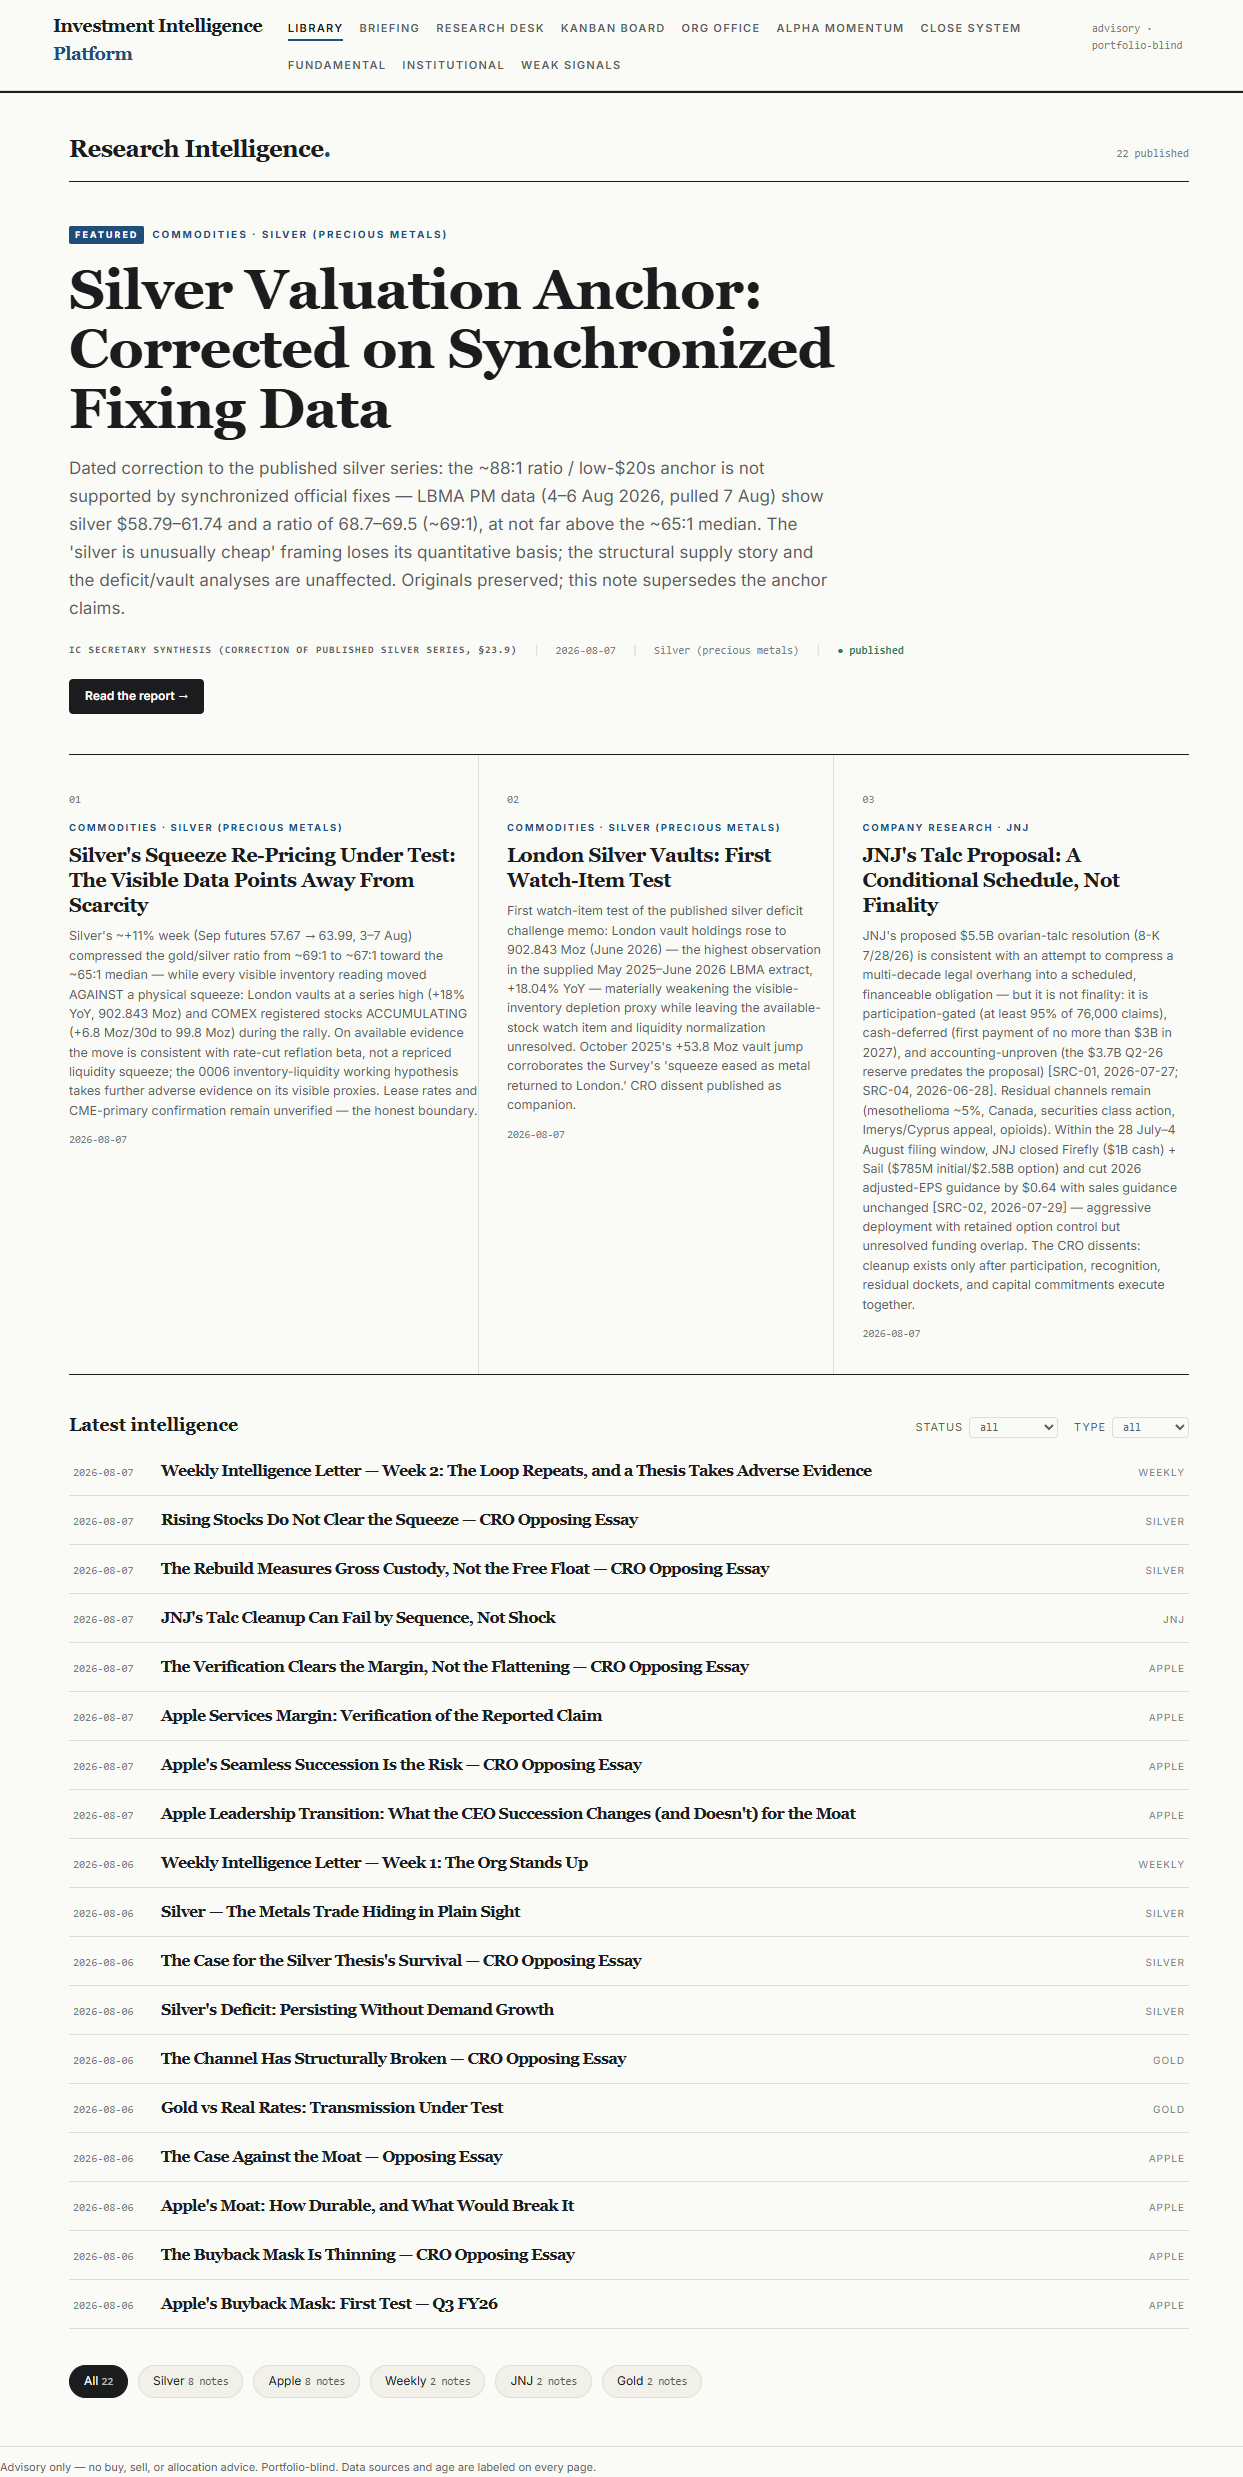
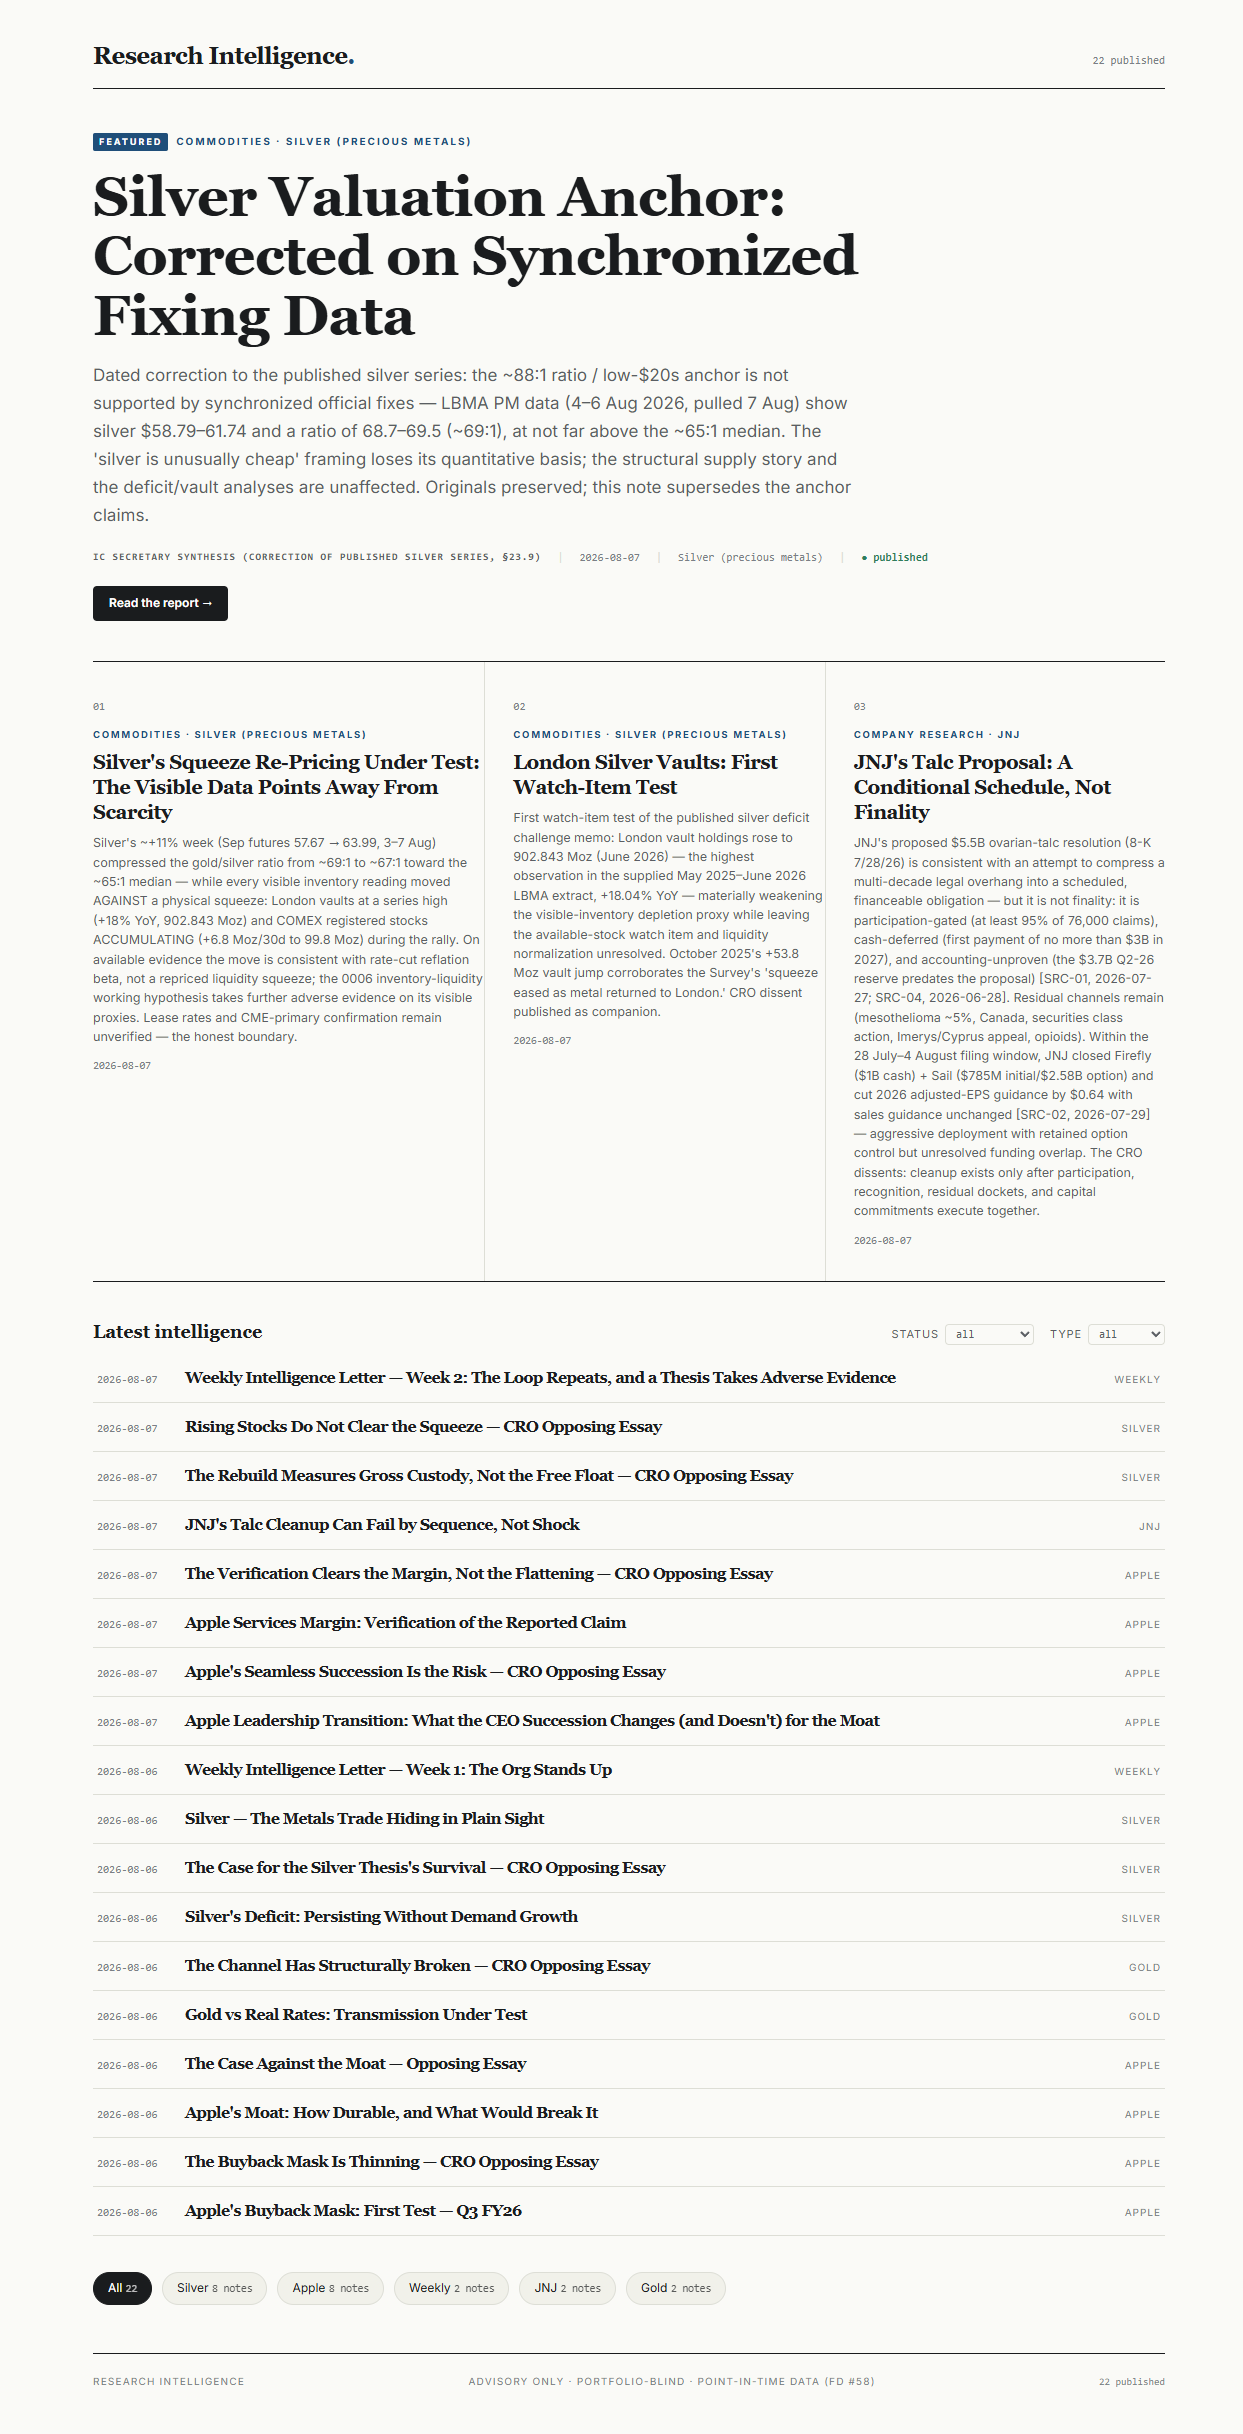
feat(library): FD #84 — magazine standalone shell (legacy app masthead/footer removed from /library + /library/:slug)
- App.tsx: library routes moved OUT of the legacy Layout (Masthead + AdvisoryFooter) — magazine renders without Briefing/Research Desk/Kanban/Org Office nav
- LibraryPage: own shell (min-h-screen, bg-bg-page) + magazine footer (Research Intelligence / Advisory only · Portfolio-blind · Point-in-time FD #58 / count)
- ReportArticlePage: same shell + magazine footer; legacy app pages untouched (frozen per FD #62)
- Browser-verified standalone (0 legacy nav, console 0 errors); screenshots updated

diff --git a/frontend/src/pages/LibraryPage.tsx b/frontend/src/pages/LibraryPage.tsx
@@ -115,7 +115,8 @@ export default function LibraryPage() {
     );
 
   return (
-    <div className="mx-auto max-w-[1120px]">
+    <div className="flex min-h-screen flex-col bg-bg-page">
+      <div className="mx-auto w-full max-w-[1120px] flex-1 px-6 py-6">
       {/* ── Minimal masthead ── */}
       <header className="flex flex-wrap items-baseline justify-between gap-2 border-b border-ink py-4">
         <span className="font-display text-2xl font-bold tracking-tight">
@@ -266,6 +267,14 @@ export default function LibraryPage() {
           </button>
         ))}
       </section>
+
+      {/* ── Magazine footer (standalone shell — FD #84) ── */}
+      <footer className="mt-12 flex flex-wrap items-baseline justify-between gap-2 border-t border-ink py-5 text-[10px] uppercase tracking-[0.12em] text-ink-3">
+        <span>Research Intelligence</span>
+        <span>Advisory only · Portfolio-blind · Point-in-time data (FD #58)</span>
+        <span className="font-mono normal-case tracking-normal">{published.length} published</span>
+      </footer>
+      </div>
     </div>
   );
 }

diff --git a/frontend/src/App.tsx b/frontend/src/App.tsx
@@ -48,8 +48,6 @@ export default function App() {
             <Route path="research" element={<ResearchDeskPage />} />
             <Route path="kanban" element={<KanbanBoardPage />} />
             <Route path="org-office" element={<OrgOfficePage />} />
-            <Route path="library" element={<LibraryPage />} />
-            <Route path="library/:slug" element={<ReportArticlePage />} />
             <Route path="research/*" element={<ResearchArtifactDetailPage />} />
             <Route path="am-queue" element={<AMQueuePage />} />
             <Route path="am-screener" element={<AMScreenerPage />} />
@@ -63,6 +61,9 @@ export default function App() {
             <Route path="weak-signals" element={<WeakSignalInboxPage />} />
             <Route path="*" element={<NotFoundPage />} />
           </Route>
+          {/* Research blog — standalone magazine shell (FD #84: no legacy app masthead/footer). */}
+          <Route path="library" element={<LibraryPage />} />
+          <Route path="library/:slug" element={<ReportArticlePage />} />
         </Routes>
       </AuthGate>
     </BrowserRouter>

diff --git a/frontend/src/pages/ReportArticlePage.tsx b/frontend/src/pages/ReportArticlePage.tsx
@@ -107,7 +107,8 @@ export default function ReportArticlePage() {
   }
 
   return (
-    <div className="mx-auto max-w-[820px]">
+    <div className="flex min-h-screen flex-col bg-bg-page">
+      <div className="mx-auto w-full max-w-[820px] flex-1 px-6 py-6">
       <Link to="/library" className="inline-flex items-center gap-1 text-[11px] font-semibold uppercase tracking-[0.12em] text-ink-3 hover:text-foreground">
         <ArrowLeft className="size-3.5" /> Library
       </Link>
@@ -150,6 +151,11 @@ export default function ReportArticlePage() {
             </Link>
           )}
         </div>
+      </footer>
+      </div>
+      {/* ── Magazine footer (standalone shell — FD #84) ── */}
+      <footer className="mx-auto w-full max-w-[1120px] border-t border-ink px-6 py-5 text-[10px] uppercase tracking-[0.12em] text-ink-3">
+        Advisory only · Portfolio-blind · Point-in-time data (FD #58)
       </footer>
     </div>
   );
